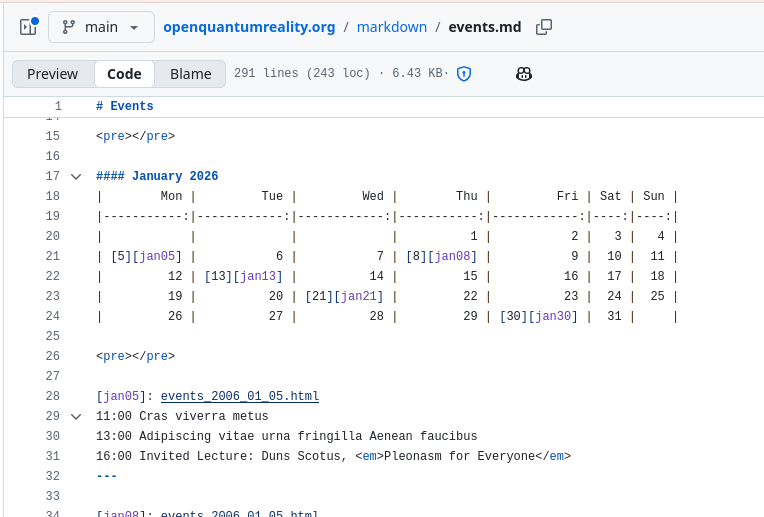
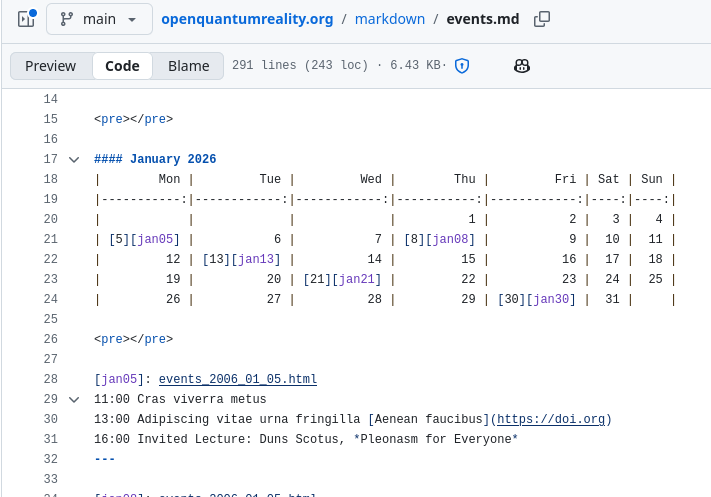
use markdown in reference specs

diff --git a/html/events.html b/html/events.html
@@ -92,6 +92,13 @@
         <div class="row align-items-start" style="margin-bottom: 60px">
             <div class="col-sm-6" style="text-align: left;">
             <!-- Based on https://ellanew.com/2025/12/30/markdown-calendars-2026 -->
+<!-- Note the description of each day below must contain no blank lines
+     and must end with a line whose first character is either "-" or "=".
+  -->
+<!-- Note that the .html file to the right of the ref is the local event page for
+     that ref, but in principle this could be anything including a link to an external
+     website.
+  -->
 <pre></pre>
 <h4>January 2026</h4>
 <table>
@@ -117,17 +124,17 @@
 <td class="font-monospace fst-italic" style="text-align: right;">4</td>
 </tr>
 <tr>
-<td class="font-monospace fst-italic" style="text-align: right;"><a href="events_2006_01_05.html" data-bs-toggle="tooltip" data-bs-html="true" data-bs-animation="true" data-bs-delay='{"show": "200", "hide": "200"}' onclick="return refreshTooltips();" title="11:00 Cras viverra metus&lt;br/&gt;&lt;br/&gt;13:00 Adipiscing vitae urna fringilla Aenean faucibus&lt;br/&gt;&lt;br/&gt;16:00 Invited Lecture: Duns Scotus, &lt;em&gt;Pleonasm for Everyone&lt;/em&gt;">5</a></td>
+<td class="font-monospace fst-italic" style="text-align: right;"><a href="events_2006_01_05.html" data-bs-toggle="tooltip" data-bs-html="true" data-bs-animation="true" data-bs-delay='{"show": "200", "hide": "2000"}' onclick="return refreshTooltips();" title="&lt;p&gt;11:00 Cras viverra metus&lt;br/&gt;&lt;br/&gt;13:00 Adipiscing vitae urna fringilla&lt;br/&gt;&lt;br/&gt;16:00 Invited Lecture: Duns Scotus, &lt;em&gt;Pleonasm for Everyone&lt;/em&gt;&lt;/p&gt;">5</a></td>
 <td class="font-monospace fst-italic" style="text-align: right;">6</td>
 <td class="font-monospace fst-italic" style="text-align: right;">7</td>
-<td class="font-monospace fst-italic" style="text-align: right;"><a href="events_2006_01_05.html" data-bs-toggle="tooltip" data-bs-html="true" data-bs-animation="true" data-bs-delay='{"show": "200", "hide": "200"}' onclick="return refreshTooltips();" title="15:00 Graduate student colloquium talk on: &lt;em&gt;Latin Yesterday and Today&lt;/em&gt;">8</a></td>
+<td class="font-monospace fst-italic" style="text-align: right;"><a href="events_2006_01_05.html" data-bs-toggle="tooltip" data-bs-html="true" data-bs-animation="true" data-bs-delay='{"show": "200", "hide": "2000"}' onclick="return refreshTooltips();" title="&lt;p&gt;15:00 Graduate student colloquium talk on: &lt;strong&gt;Latin Yesterday and Today&lt;/strong&gt;&lt;/p&gt;">8</a></td>
 <td class="font-monospace fst-italic" style="text-align: right;">9</td>
 <td class="font-monospace fst-italic" style="text-align: right;">10</td>
 <td class="font-monospace fst-italic" style="text-align: right;">11</td>
 </tr>
 <tr>
 <td class="font-monospace fst-italic" style="text-align: right;">12</td>
-<td class="font-monospace fst-italic" style="text-align: right;"><a href="https://time.is/" data-bs-toggle="tooltip" data-bs-html="true" data-bs-animation="true" data-bs-delay='{"show": "200", "hide": "200"}' onclick="return refreshTooltips();" title="14:00 Department meeting">13</a></td>
+<td class="font-monospace fst-italic" style="text-align: right;"><a href="https://time.is/" data-bs-toggle="tooltip" data-bs-html="true" data-bs-animation="true" data-bs-delay='{"show": "200", "hide": "2000"}' onclick="return refreshTooltips();" title="&lt;p&gt;14:00 Department meeting&lt;/p&gt;">13</a></td>
 <td class="font-monospace fst-italic" style="text-align: right;">14</td>
 <td class="font-monospace fst-italic" style="text-align: right;">15</td>
 <td class="font-monospace fst-italic" style="text-align: right;">16</td>
@@ -137,7 +144,7 @@
 <tr>
 <td class="font-monospace fst-italic" style="text-align: right;">19</td>
 <td class="font-monospace fst-italic" style="text-align: right;">20</td>
-<td class="font-monospace fst-italic" style="text-align: right;"><a href="https://thebulletin.org/doomsday-clock/" data-bs-toggle="tooltip" data-bs-html="true" data-bs-animation="true" data-bs-delay='{"show": "200", "hide": "200"}' onclick="return refreshTooltips();" title="8:00 Team-building wilderness hike">21</a></td>
+<td class="font-monospace fst-italic" style="text-align: right;"><a href="https://thebulletin.org/doomsday-clock/" data-bs-toggle="tooltip" data-bs-html="true" data-bs-animation="true" data-bs-delay='{"show": "200", "hide": "2000"}' onclick="return refreshTooltips();" title="&lt;p&gt;8:00 Team-building wilderness hike&lt;/p&gt;">21</a></td>
 <td class="font-monospace fst-italic" style="text-align: right;">22</td>
 <td class="font-monospace fst-italic" style="text-align: right;">23</td>
 <td class="font-monospace fst-italic" style="text-align: right;">24</td>
@@ -148,20 +155,13 @@
 <td class="font-monospace fst-italic" style="text-align: right;">27</td>
 <td class="font-monospace fst-italic" style="text-align: right;">28</td>
 <td class="font-monospace fst-italic" style="text-align: right;">29</td>
-<td class="font-monospace fst-italic" style="text-align: right;"><a href="https://www.asc-csa.gc.ca/eng/" data-bs-toggle="tooltip" data-bs-html="true" data-bs-animation="true" data-bs-delay='{"show": "200", "hide": "200"}' onclick="return refreshTooltips();" title="16:00 Invited lecture: Bonaventure, &lt;em&gt;Revisiting The Four Books of Sentences&lt;/em&gt;">30</a></td>
+<td class="font-monospace fst-italic" style="text-align: right;"><a href="https://www.asc-csa.gc.ca/eng/" data-bs-toggle="tooltip" data-bs-html="true" data-bs-animation="true" data-bs-delay='{"show": "200", "hide": "2000"}' onclick="return refreshTooltips();" title="&lt;p&gt;16:00 Invited lecture: Bonaventure, &lt;em&gt;Revisiting The Four Books of Sentences&lt;/em&gt;&lt;/p&gt;">30</a></td>
 <td class="font-monospace fst-italic" style="text-align: right;">31</td>
 <td class="font-monospace fst-italic" style="text-align: right;"></td>
 </tr>
 </tbody>
 </table>
 <pre></pre>
-<!-- Note the descriptions below can have no blank lines in between them. -->
-<!-- The .html file to the right of the ref is the event page corresponding to that ref,
-     but in principle this could be anything including a link to an external website,
-     like some of the other events below this one.
-     Note that each day description must end with a line that begins with either
-     "-" or "="
- -->
 <p class="mb-4">&nbsp;</p>
 <h4>February 2026</h4>
 <table>
@@ -200,7 +200,7 @@
 <td class="font-monospace fst-italic" style="text-align: right;">10</td>
 <td class="font-monospace fst-italic" style="text-align: right;">11</td>
 <td class="font-monospace fst-italic" style="text-align: right;">12</td>
-<td class="font-monospace fst-italic" style="text-align: right;"><a href="https://en.wikipedia.org/wiki/Italian_name" data-bs-toggle="tooltip" data-bs-html="true" data-bs-animation="true" data-bs-delay='{"show": "200", "hide": "200"}' onclick="return refreshTooltips();" title="12:30 Presentation by Roisin of her latest research on tortoises">13</a></td>
+<td class="font-monospace fst-italic" style="text-align: right;"><a href="https://en.wikipedia.org/wiki/Italian_name" data-bs-toggle="tooltip" data-bs-html="true" data-bs-animation="true" data-bs-delay='{"show": "200", "hide": "2000"}' onclick="return refreshTooltips();" title="&lt;p&gt;12:30 Presentation by Roisin of her latest research on tortoises&lt;/p&gt;">13</a></td>
 <td class="font-monospace fst-italic" style="text-align: right;">14</td>
 <td class="font-monospace fst-italic" style="text-align: right;">15</td>
 </tr>

diff --git a/src/events-from-markdown.html b/src/events-from-markdown.html
@@ -4,6 +4,13 @@
         <div class="row align-items-start" style="margin-bottom: 60px">
             <div class="col-sm-6" style="text-align: left;">
             <!-- Based on https://ellanew.com/2025/12/30/markdown-calendars-2026 -->
+<!-- Note the description of each day below must contain no blank lines
+     and must end with a line whose first character is either "-" or "=".
+  -->
+<!-- Note that the .html file to the right of the ref is the local event page for
+     that ref, but in principle this could be anything including a link to an external
+     website.
+  -->
 <pre></pre>
 <h4>January 2026</h4>
 <table>
@@ -29,17 +36,17 @@
 <td class="font-monospace fst-italic" style="text-align: right;">4</td>
 </tr>
 <tr>
-<td class="font-monospace fst-italic" style="text-align: right;"><a href="events_2006_01_05.html" data-bs-toggle="tooltip" data-bs-html="true" data-bs-animation="true" data-bs-delay='{"show": "200", "hide": "200"}' onclick="return refreshTooltips();" title="11:00 Cras viverra metus&lt;br/&gt;&lt;br/&gt;13:00 Adipiscing vitae urna fringilla Aenean faucibus&lt;br/&gt;&lt;br/&gt;16:00 Invited Lecture: Duns Scotus, &lt;em&gt;Pleonasm for Everyone&lt;/em&gt;">5</a></td>
+<td class="font-monospace fst-italic" style="text-align: right;"><a href="events_2006_01_05.html" data-bs-toggle="tooltip" data-bs-html="true" data-bs-animation="true" data-bs-delay='{"show": "200", "hide": "2000"}' onclick="return refreshTooltips();" title="&lt;p&gt;11:00 Cras viverra metus&lt;br/&gt;&lt;br/&gt;13:00 Adipiscing vitae urna fringilla&lt;br/&gt;&lt;br/&gt;16:00 Invited Lecture: Duns Scotus, &lt;em&gt;Pleonasm for Everyone&lt;/em&gt;&lt;/p&gt;">5</a></td>
 <td class="font-monospace fst-italic" style="text-align: right;">6</td>
 <td class="font-monospace fst-italic" style="text-align: right;">7</td>
-<td class="font-monospace fst-italic" style="text-align: right;"><a href="events_2006_01_05.html" data-bs-toggle="tooltip" data-bs-html="true" data-bs-animation="true" data-bs-delay='{"show": "200", "hide": "200"}' onclick="return refreshTooltips();" title="15:00 Graduate student colloquium talk on: &lt;em&gt;Latin Yesterday and Today&lt;/em&gt;">8</a></td>
+<td class="font-monospace fst-italic" style="text-align: right;"><a href="events_2006_01_05.html" data-bs-toggle="tooltip" data-bs-html="true" data-bs-animation="true" data-bs-delay='{"show": "200", "hide": "2000"}' onclick="return refreshTooltips();" title="&lt;p&gt;15:00 Graduate student colloquium talk on: &lt;strong&gt;Latin Yesterday and Today&lt;/strong&gt;&lt;/p&gt;">8</a></td>
 <td class="font-monospace fst-italic" style="text-align: right;">9</td>
 <td class="font-monospace fst-italic" style="text-align: right;">10</td>
 <td class="font-monospace fst-italic" style="text-align: right;">11</td>
 </tr>
 <tr>
 <td class="font-monospace fst-italic" style="text-align: right;">12</td>
-<td class="font-monospace fst-italic" style="text-align: right;"><a href="https://time.is/" data-bs-toggle="tooltip" data-bs-html="true" data-bs-animation="true" data-bs-delay='{"show": "200", "hide": "200"}' onclick="return refreshTooltips();" title="14:00 Department meeting">13</a></td>
+<td class="font-monospace fst-italic" style="text-align: right;"><a href="https://time.is/" data-bs-toggle="tooltip" data-bs-html="true" data-bs-animation="true" data-bs-delay='{"show": "200", "hide": "2000"}' onclick="return refreshTooltips();" title="&lt;p&gt;14:00 Department meeting&lt;/p&gt;">13</a></td>
 <td class="font-monospace fst-italic" style="text-align: right;">14</td>
 <td class="font-monospace fst-italic" style="text-align: right;">15</td>
 <td class="font-monospace fst-italic" style="text-align: right;">16</td>
@@ -49,7 +56,7 @@
 <tr>
 <td class="font-monospace fst-italic" style="text-align: right;">19</td>
 <td class="font-monospace fst-italic" style="text-align: right;">20</td>
-<td class="font-monospace fst-italic" style="text-align: right;"><a href="https://thebulletin.org/doomsday-clock/" data-bs-toggle="tooltip" data-bs-html="true" data-bs-animation="true" data-bs-delay='{"show": "200", "hide": "200"}' onclick="return refreshTooltips();" title="8:00 Team-building wilderness hike">21</a></td>
+<td class="font-monospace fst-italic" style="text-align: right;"><a href="https://thebulletin.org/doomsday-clock/" data-bs-toggle="tooltip" data-bs-html="true" data-bs-animation="true" data-bs-delay='{"show": "200", "hide": "2000"}' onclick="return refreshTooltips();" title="&lt;p&gt;8:00 Team-building wilderness hike&lt;/p&gt;">21</a></td>
 <td class="font-monospace fst-italic" style="text-align: right;">22</td>
 <td class="font-monospace fst-italic" style="text-align: right;">23</td>
 <td class="font-monospace fst-italic" style="text-align: right;">24</td>
@@ -60,20 +67,13 @@
 <td class="font-monospace fst-italic" style="text-align: right;">27</td>
 <td class="font-monospace fst-italic" style="text-align: right;">28</td>
 <td class="font-monospace fst-italic" style="text-align: right;">29</td>
-<td class="font-monospace fst-italic" style="text-align: right;"><a href="https://www.asc-csa.gc.ca/eng/" data-bs-toggle="tooltip" data-bs-html="true" data-bs-animation="true" data-bs-delay='{"show": "200", "hide": "200"}' onclick="return refreshTooltips();" title="16:00 Invited lecture: Bonaventure, &lt;em&gt;Revisiting The Four Books of Sentences&lt;/em&gt;">30</a></td>
+<td class="font-monospace fst-italic" style="text-align: right;"><a href="https://www.asc-csa.gc.ca/eng/" data-bs-toggle="tooltip" data-bs-html="true" data-bs-animation="true" data-bs-delay='{"show": "200", "hide": "2000"}' onclick="return refreshTooltips();" title="&lt;p&gt;16:00 Invited lecture: Bonaventure, &lt;em&gt;Revisiting The Four Books of Sentences&lt;/em&gt;&lt;/p&gt;">30</a></td>
 <td class="font-monospace fst-italic" style="text-align: right;">31</td>
 <td class="font-monospace fst-italic" style="text-align: right;"></td>
 </tr>
 </tbody>
 </table>
 <pre></pre>
-<!-- Note the descriptions below can have no blank lines in between them. -->
-<!-- The .html file to the right of the ref is the event page corresponding to that ref,
-     but in principle this could be anything including a link to an external website,
-     like some of the other events below this one.
-     Note that each day description must end with a line that begins with either
-     "-" or "="
- -->
 <p class="mb-4">&nbsp;</p>
 <h4>February 2026</h4>
 <table>
@@ -112,7 +112,7 @@
 <td class="font-monospace fst-italic" style="text-align: right;">10</td>
 <td class="font-monospace fst-italic" style="text-align: right;">11</td>
 <td class="font-monospace fst-italic" style="text-align: right;">12</td>
-<td class="font-monospace fst-italic" style="text-align: right;"><a href="https://en.wikipedia.org/wiki/Italian_name" data-bs-toggle="tooltip" data-bs-html="true" data-bs-animation="true" data-bs-delay='{"show": "200", "hide": "200"}' onclick="return refreshTooltips();" title="12:30 Presentation by Roisin of her latest research on tortoises">13</a></td>
+<td class="font-monospace fst-italic" style="text-align: right;"><a href="https://en.wikipedia.org/wiki/Italian_name" data-bs-toggle="tooltip" data-bs-html="true" data-bs-animation="true" data-bs-delay='{"show": "200", "hide": "2000"}' onclick="return refreshTooltips();" title="&lt;p&gt;12:30 Presentation by Roisin of her latest research on tortoises&lt;/p&gt;">13</a></td>
 <td class="font-monospace fst-italic" style="text-align: right;">14</td>
 <td class="font-monospace fst-italic" style="text-align: right;">15</td>
 </tr>

diff --git a/markdown2html.py b/markdown2html.py
@@ -70,7 +70,7 @@ def main():
             'data-bs-toggle="tooltip" '
             'data-bs-html="true" '
             'data-bs-animation="true" '
-            'data-bs-delay=\'{"show": "200", "hide": "200"}\' '
+            'data-bs-delay=\'{"show": "200", "hide": "2000"}\' '
             'onclick="return refreshTooltips();" '
             'title="',
             html
@@ -145,6 +145,7 @@ def main():
                     event_heading = event_description_buffer[0]
                     event_description = "<br/><br/>".join(event_description_buffer[1:])
                     event_description = event_description.strip('"\'')
+                    event_description = markdown_parser.convert(event_description)
                     event_description = f'"{event_description}"'
                     processed_lines.append(event_heading)
                     processed_lines.append(event_description)

diff --git a/markdown/events.md b/markdown/events.md
@@ -27,12 +27,12 @@
 
 [jan05]: events_2006_01_05.html
 11:00 Cras viverra metus
-13:00 Adipiscing vitae urna fringilla Aenean faucibus
-16:00 Invited Lecture: Duns Scotus, <em>Pleonasm for Everyone</em>
+13:00 Adipiscing vitae urna fringilla
+16:00 Invited Lecture: Duns Scotus, *Pleonasm for Everyone*
 ---
 
 [jan08]: events_2006_01_05.html
-15:00 Graduate student colloquium talk on: <em>Latin Yesterday and Today</em>
+15:00 Graduate student colloquium talk on: **Latin Yesterday and Today**
 ---
 
 [jan13]: https://time.is/
@@ -44,7 +44,7 @@
 ---
 
 [jan30]: https://www.asc-csa.gc.ca/eng/
-16:00 Invited lecture: Bonaventure, <em>Revisiting The Four Books of Sentences</em>
+16:00 Invited lecture: Bonaventure, _Revisiting The Four Books of Sentences_
 ---
 
 &nbsp;
